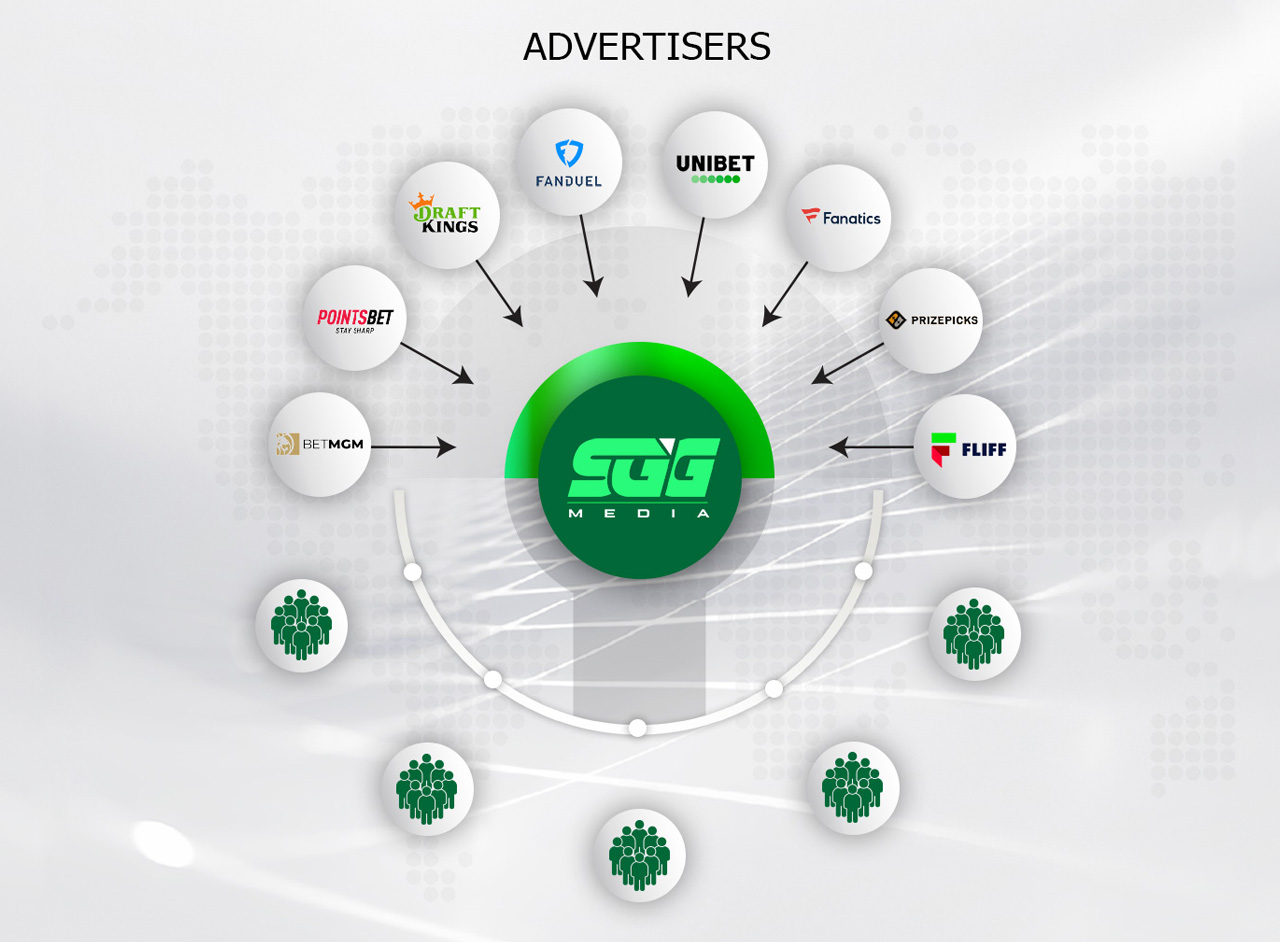
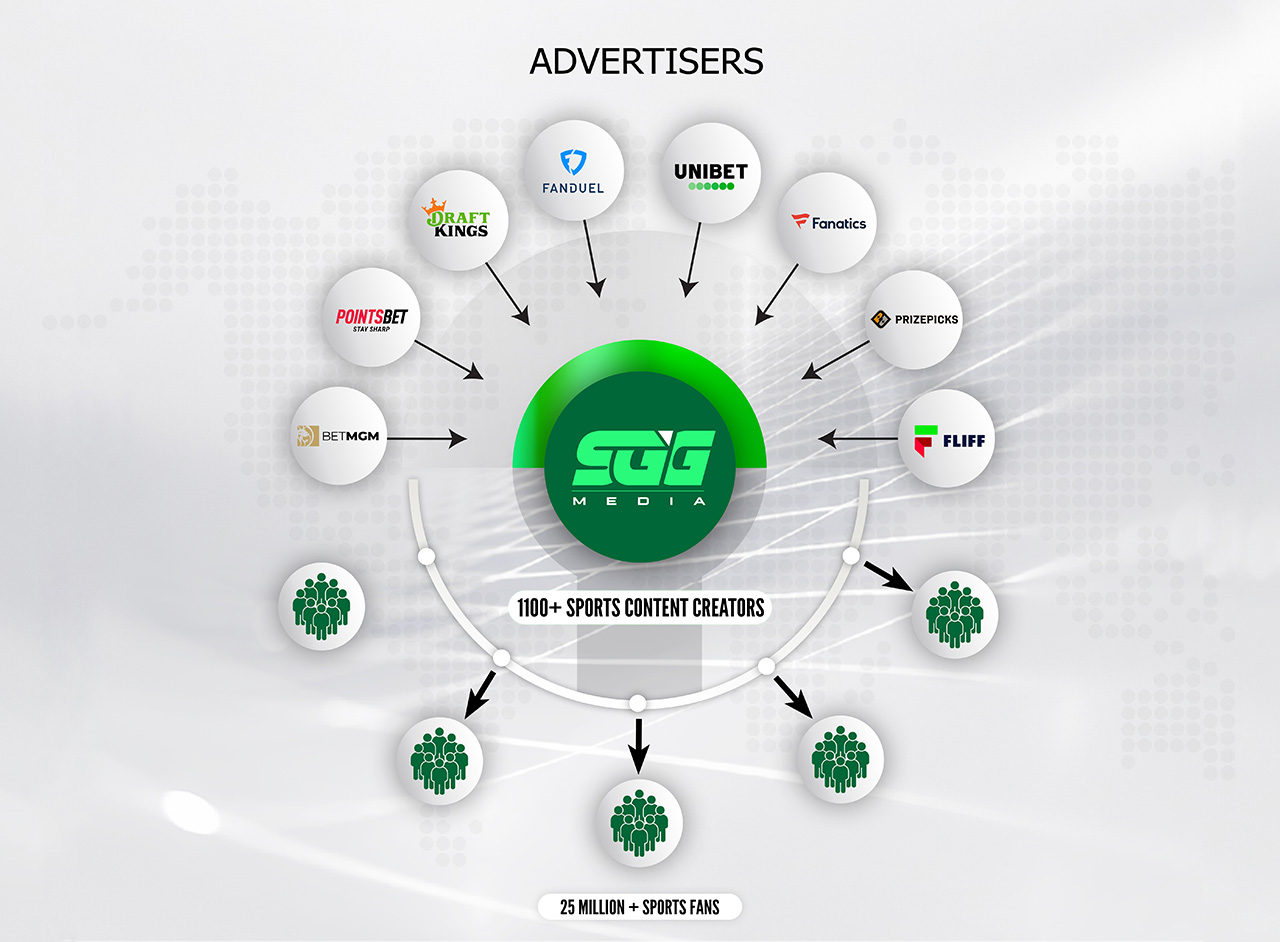
Compile Advertiser in one page

diff --git a/resources/styles/main.css b/resources/styles/main.css
@@ -1,1 +1,1 @@
-.introduction .uk-headings{text-align:center;margin:0 auto 60px}.introduction .uk-headings h2{font-family:"PassionOne-Regular";font-size:clamp(2.5rem,1rem + 2.5vw,4.5rem);color:#00a305;text-transform:uppercase;line-height:.8}.introduction .uk-headings br{content:"";display:inline}@media(min-width: 640px){.introduction .uk-headings br{display:block}}.introduction .uk-card-body{padding:0}.introduction .uk-card-title{font-family:"PassionOne-Regular";font-size:clamp(2.5rem,1rem + 2vw,4rem);text-transform:uppercase}.influencers-graph h2{font-family:"PassionOne-Regular";font-size:3rem;color:#000;text-transform:uppercase;line-height:.8;margin:0}.influencers-graph h2+p{font-size:1.125rem;text-transform:uppercase;margin:15px 0 30px}.influencers-graph .chart-container{position:relative;max-width:800px;width:100%;height:400px;margin:auto}.influencers-graph .uk-position-small{background-color:rgba(0,0,0,.8);color:rgba(255,255,255,.9);height:34px !important;padding:.4em .5em;border-radius:3px}.influencers-graph .uk-position-small span{position:relative;top:-5px}.influencers-graph .uk-flex-column .uk-card-body{padding:1em 1.5em}.influencers-graph .uk-flex-column .uk-card-title{font-family:"PassionOne-Regular";font-size:2rem;text-transform:uppercase}.influencers-graph .uk-flex-column a[href]{color:#00a305}.behind-sgg{padding:40px 0}.behind-sgg .uk-slider{min-height:568px}.behind-sgg .uk-slider .uk-slidenav{display:flex;align-items:center;justify-content:center;background-color:rgba(0,163,5,.5);color:#fff;width:40px;height:80px;border-radius:5px;transition:300ms ease-out}.behind-sgg .uk-slider .uk-slidenav:hover{background-color:#00a305}.behind-sgg figure.uk-grid{text-align:justify}.behind-sgg figure.uk-grid h2{font-family:"PassionOne-Regular";font-size:3rem;color:#000;text-transform:uppercase}@media(min-width: 640px){.behind-sgg{padding:0}}.partners.uk-section-secondary{background-color:#222}.partners h2{font-family:"PassionOne-Regular";font-size:3rem;color:#000;text-transform:uppercase;text-align:center;margin-bottom:30px}.partners .grid-wrapper{display:flex;flex-flow:row wrap;gap:15px}.partners .grid-wrapper .uk-card{flex:1 0 calc(50% - 10px);margin:0}.partners .grid-wrapper .uk-card-badge{background-color:rgba(0,0,0,0);padding:0}.partners .grid-wrapper .uk-card-badge button{background-color:#00a305;font-size:.75rem;color:#fff;text-transform:capitalize;padding:.5em;border:0;border-radius:3px}@media(min-width: 640px){.partners .grid-wrapper .uk-card{flex:0 1 calc(33.3333333333% - 10px)}}@media(min-width: 960px){.partners .grid-wrapper .uk-card{flex:0 1 calc(25% - 11.5px)}}.colophon .contact-info{background-repeat:no-repeat;background-size:cover;background-position:center}.colophon .contact-info p{font-family:"OpenSans-SemiBold";text-transform:uppercase;-webkit-font-smoothing:antialiased;-moz-osx-font-smoothing:grayscale}.colophon .contact-info p.uk-text-lead{font-family:"OpenSans-Bold";color:#fff}.colophon .contact-info p strong{color:#fff}.colophon .contact-info p span.uk-text-meta{display:block}.colophon .contact-info-link{background-image:url(../images//sgg-contact-info-link.jpg);background-repeat:no-repeat;background-size:cover;background-position:center}.colophon .contact-info-link h2{font-family:"PassionOne-Regular";font-size:3rem;color:rgba(255,255,255,.8);text-transform:uppercase}.sample-ads{z-index:100001}.sample-ads .uk-modal-dialog{background-color:#fff;padding:2em;border-radius:5px}.sample-ads h2{font-family:"PassionOne-Regular";font-size:3rem;color:#000;text-transform:uppercase;line-height:1;margin-bottom:30px}.sample-ads h2 small{display:block;font-family:"OpenSans-Bold";font-size:1.5rem}.sample-ads img{max-width:640px;width:100%;height:auto}#modal-audience{z-index:100001}#modal-audience .uk-modal-dialog{background:rgba(0,0,0,0)}#modal-audience img{display:block;max-width:640px;margin:15px 0}#modal-promotions{z-index:100001}[data-card=careers] .uk-accordion>li{margin-top:15px;padding-top:29px;padding-bottom:15px;border-top:1px solid #f5f5f5}[data-card=careers] .uk-accordion>li:first-child{border-top:0}[data-card=careers] .uk-accordion .uk-accordion-title{font-family:"OpenSans-SemiBold";font-size:24px;overflow:visible;-webkit-font-smoothing:antialiased;-moz-osx-font-smoothing:grayscale}[data-card=careers] .uk-accordion .uk-accordion-title::before{float:left;position:relative;top:-2px;background-color:rgba(204,204,204,.25);margin-left:0;margin-right:20px;border-radius:50px}[data-card=careers] .uk-accordion .uk-accordion-content{padding-left:55px}[data-card=careers] .uk-accordion .uk-accordion-content h4{font-family:"OpenSans-SemiBold";font-size:18px}[data-card=careers] .uk-accordion .uk-accordion-content a{color:#00a305;border-bottom:1px dotted rgba(0,163,5,.75)}.press-release .uk-card .uk-card-media-top{margin-top:1.5em;border-radius:3px}.press-release .uk-card .uk-card-title{font-family:"OpenSans-Bold";font-size:1.125rem;line-height:1.2}.press-release .uk-card .uk-card-footer a{color:#000;text-decoration:none}.executive-team .uk-headings,.marketing-team .uk-headings{text-align:center;margin:0 auto 30px}.executive-team .uk-headings small,.marketing-team .uk-headings small{font-family:"OpenSans-SemiBold";font-size:.875rem;text-transform:uppercase}.executive-team .uk-headings h2,.marketing-team .uk-headings h2{font-family:"PassionOne-Regular";font-size:3rem;color:#000;text-transform:uppercase;line-height:.8}.executive-team .uk-headings h3,.marketing-team .uk-headings h3{font-family:"PassionOne-Regular";font-size:2rem;color:#000;text-transform:uppercase;line-height:.8}.executive-team .uk-card,.marketing-team .uk-card{max-width:300px;margin-inline:auto;border-radius:3px}.executive-team .uk-card .uk-card-media-top,.marketing-team .uk-card .uk-card-media-top{padding:1.5em}.executive-team .uk-card .uk-card-media-top img,.marketing-team .uk-card .uk-card-media-top img{border:1px solid #005703;border-radius:3px}.executive-team .uk-card .uk-card-body,.marketing-team .uk-card .uk-card-body{padding-block:0}.executive-team .uk-card .uk-card-body h3,.executive-team .uk-card .uk-card-body p,.marketing-team .uk-card .uk-card-body h3,.marketing-team .uk-card .uk-card-body p{margin:0;-webkit-font-smoothing:antialiased;-moz-osx-font-smoothing:grayscale}.executive-team .uk-card .uk-card-body h3,.marketing-team .uk-card .uk-card-body h3{font-family:"PassionOne-Regular";font-size:1.5rem;text-transform:uppercase}.executive-team .uk-card .uk-card-footer,.marketing-team .uk-card .uk-card-footer{position:relative;border-top:0}.executive-team .uk-card .uk-card-footer::before,.marketing-team .uk-card .uk-card-footer::before{content:"";position:relative;top:-10px;display:block;max-width:200px;width:100%;margin:auto;border-top:1px solid rgba(238,238,238,.5)}.executive-team .uk-card .uk-card-footer button,.marketing-team .uk-card .uk-card-footer button{background-color:rgba(0,0,0,0);font-family:"OpenSans-SemiBold";font-size:.875rem;text-transform:uppercase;padding:0;border:0}.executive-team .uk-card-primary,.marketing-team .uk-card-primary{background-color:#00a305}.executive-team .uk-card-primary *,.marketing-team .uk-card-primary *{color:rgba(255,255,255,.8)}.executive-team .uk-card-secondary,.marketing-team .uk-card-secondary{background-color:rgba(0,0,0,0)}.executive-team .uk-card-secondary .uk-card-body,.marketing-team .uk-card-secondary .uk-card-body{color:#444;min-height:auto;padding-block:1em}.executive-team .uk-card-secondary .uk-card-body h3,.marketing-team .uk-card-secondary .uk-card-body h3{background-color:#00a305;line-height:normal;margin:0 0 5px;padding:.25em .25em .15em;border-radius:3px}.biography{z-index:100001}.biography .uk-modal-dialog{font-size:.875rem;padding:2em;border-radius:5px}.biography figure{position:relative}.biography figure::before{content:"";position:absolute;inset:17px auto auto 17px;display:block;background-color:#00a305;width:150px;height:150px;border-radius:3px;z-index:0}.biography figure img{position:relative;box-shadow:5px 5px 0 2px rgba(204,204,204,.5);border-radius:3px;z-index:1}.biography .uk-h3{font-family:"PassionOne-Regular";font-size:2rem;color:#000;text-transform:uppercase;line-height:1;margin:0}.biography .uk-h3+p{margin:0}.contact .uk-headings{text-align:center;margin:0 auto 30px}.contact .uk-headings h2{font-family:"PassionOne-Regular";font-size:clamp(1.75rem,.375rem + 1.875vw,3rem);color:#000;text-transform:uppercase;line-height:1}.contact h3{font-family:"PassionOne-Regular";font-size:clamp(1.5rem,.375rem + 1.875vw,2rem);color:#000;text-transform:uppercase}.contact p{font-family:"OpenSans-SemiBold";text-transform:uppercase;-webkit-font-smoothing:antialiased;-moz-osx-font-smoothing:grayscale}.contact p span.uk-text-meta{display:block}.contact .forminator-ui *{box-sizing:border-box !important}.contact .forminator-row{margin-bottom:15px !important}.contact .forminator-label{font-family:"OpenSans-SemiBold";font-size:.875rem;text-transform:uppercase}.contact .forminator-label .forminator-required{color:#b10909}.contact .forminator-description [data-type=characters]{font-size:.75rem;color:#888}.contact .forminator-button-submit{font-family:"OpenSans-SemiBold";color:#fff;text-transform:uppercase}.contact .forminator-error-message{font-size:.75rem;color:#b10909;padding:0 !important;margin:0 !important}
+.introduction .uk-headings{text-align:center;margin:0 auto 60px}.introduction .uk-headings h2{font-family:"PassionOne-Regular";font-size:clamp(2.5rem,1rem + 2.5vw,4.5rem);color:#00a305;text-transform:uppercase;line-height:.8}.introduction .uk-headings br{content:"";display:inline}@media(min-width: 640px){.introduction .uk-headings br{display:block}}.introduction .uk-card-body{padding:0}.introduction .uk-card-title{font-family:"PassionOne-Regular";font-size:clamp(2.5rem,1rem + 2vw,4rem);text-transform:uppercase}.influencers-graph h2,.advertisers h2,.revenue h2{font-family:"PassionOne-Regular";font-size:3rem;color:#000;text-transform:uppercase;line-height:.8;margin:0}.influencers-graph h2+p,.advertisers h2+p,.revenue h2+p{font-size:1.125rem;text-transform:uppercase;margin:15px 0 30px}.influencers-graph .chart-container,.advertisers .chart-container,.revenue .chart-container{position:relative;max-width:800px;width:100%;height:400px;margin:auto}.influencers-graph .uk-position-small,.advertisers .uk-position-small,.revenue .uk-position-small{background-color:rgba(0,0,0,.8);color:rgba(255,255,255,.9);height:34px !important;padding:.4em .5em;border-radius:3px}.influencers-graph .uk-position-small span,.advertisers .uk-position-small span,.revenue .uk-position-small span{position:relative;top:-5px}.influencers-graph .uk-flex-column .uk-card-body,.advertisers .uk-flex-column .uk-card-body,.revenue .uk-flex-column .uk-card-body{padding:1em 1.5em}.influencers-graph .uk-flex-column .uk-card-title,.advertisers .uk-flex-column .uk-card-title,.revenue .uk-flex-column .uk-card-title{font-family:"PassionOne-Regular";font-size:2rem;text-transform:uppercase}.influencers-graph .uk-flex-column a[href],.advertisers .uk-flex-column a[href],.revenue .uk-flex-column a[href]{color:#00a305}.behind-sgg{padding:40px 0}.behind-sgg .uk-slider{min-height:568px}.behind-sgg .uk-slider .uk-slidenav{display:flex;align-items:center;justify-content:center;background-color:rgba(0,163,5,.5);color:#fff;width:40px;height:80px;border-radius:5px;transition:300ms ease-out}.behind-sgg .uk-slider .uk-slidenav:hover{background-color:#00a305}.behind-sgg figure.uk-grid{text-align:justify}.behind-sgg figure.uk-grid h2{font-family:"PassionOne-Regular";font-size:3rem;color:#000;text-transform:uppercase}@media(min-width: 640px){.behind-sgg{padding:0}}.partners.uk-section-secondary{background-color:#222}.partners h2{font-family:"PassionOne-Regular";font-size:3rem;color:#000;text-transform:uppercase;text-align:center;margin-bottom:30px}.partners .grid-wrapper{display:flex;flex-flow:row wrap;gap:15px}.partners .grid-wrapper .uk-card{flex:1 0 calc(50% - 10px);margin:0}.partners .grid-wrapper .uk-card-badge{background-color:rgba(0,0,0,0);padding:0}.partners .grid-wrapper .uk-card-badge button{background-color:#00a305;font-size:.75rem;color:#fff;text-transform:capitalize;padding:.5em;border:0;border-radius:3px}@media(min-width: 640px){.partners .grid-wrapper .uk-card{flex:0 1 calc(33.3333333333% - 10px)}}@media(min-width: 960px){.partners .grid-wrapper .uk-card{flex:0 1 calc(25% - 11.5px)}}.colophon .contact-info{background-repeat:no-repeat;background-size:cover;background-position:center}.colophon .contact-info p{font-family:"OpenSans-SemiBold";text-transform:uppercase;-webkit-font-smoothing:antialiased;-moz-osx-font-smoothing:grayscale}.colophon .contact-info p.uk-text-lead{font-family:"OpenSans-Bold";color:#fff}.colophon .contact-info p strong{color:#fff}.colophon .contact-info p span.uk-text-meta{display:block}.colophon .contact-info-link{background-image:url(../images//sgg-contact-info-link.jpg);background-repeat:no-repeat;background-size:cover;background-position:center}.colophon .contact-info-link h2{font-family:"PassionOne-Regular";font-size:3rem;color:rgba(255,255,255,.8);text-transform:uppercase}.sample-ads{z-index:100001}.sample-ads .uk-modal-dialog{background-color:#fff;padding:2em;border-radius:5px}.sample-ads h2{font-family:"PassionOne-Regular";font-size:3rem;color:#000;text-transform:uppercase;line-height:1;margin-bottom:30px}.sample-ads h2 small{display:block;font-family:"OpenSans-Bold";font-size:1.5rem}.sample-ads img{max-width:640px;width:100%;height:auto}#modal-audience{z-index:100001}#modal-audience .uk-modal-dialog{background:rgba(0,0,0,0)}#modal-audience img{display:block;max-width:640px;margin:15px 0}#modal-promotions{z-index:100001}[data-card=careers] .uk-accordion>li{margin-top:15px;padding-top:29px;padding-bottom:15px;border-top:1px solid #f5f5f5}[data-card=careers] .uk-accordion>li:first-child{border-top:0}[data-card=careers] .uk-accordion .uk-accordion-title{font-family:"OpenSans-SemiBold";font-size:24px;overflow:visible;-webkit-font-smoothing:antialiased;-moz-osx-font-smoothing:grayscale}[data-card=careers] .uk-accordion .uk-accordion-title::before{float:left;position:relative;top:-2px;background-color:rgba(204,204,204,.25);margin-left:0;margin-right:20px;border-radius:50px}[data-card=careers] .uk-accordion .uk-accordion-content{padding-left:55px}[data-card=careers] .uk-accordion .uk-accordion-content h4{font-family:"OpenSans-SemiBold";font-size:18px}[data-card=careers] .uk-accordion .uk-accordion-content a{color:#00a305;border-bottom:1px dotted rgba(0,163,5,.75)}.press-release .uk-card .uk-card-media-top{margin-top:1.5em;border-radius:3px}.press-release .uk-card .uk-card-title{font-family:"OpenSans-Bold";font-size:1.125rem;line-height:1.2}.press-release .uk-card .uk-card-footer a{color:#000;text-decoration:none}.executive-team .uk-headings,.marketing-team .uk-headings{text-align:center;margin:0 auto 30px}.executive-team .uk-headings small,.marketing-team .uk-headings small{font-family:"OpenSans-SemiBold";font-size:.875rem;text-transform:uppercase}.executive-team .uk-headings h2,.marketing-team .uk-headings h2{font-family:"PassionOne-Regular";font-size:3rem;color:#000;text-transform:uppercase;line-height:.8}.executive-team .uk-headings h3,.marketing-team .uk-headings h3{font-family:"PassionOne-Regular";font-size:2rem;color:#000;text-transform:uppercase;line-height:.8}.executive-team .uk-card,.marketing-team .uk-card{max-width:300px;margin-inline:auto;border-radius:3px}.executive-team .uk-card .uk-card-media-top,.marketing-team .uk-card .uk-card-media-top{padding:1.5em}.executive-team .uk-card .uk-card-media-top img,.marketing-team .uk-card .uk-card-media-top img{border:1px solid #005703;border-radius:3px}.executive-team .uk-card .uk-card-body,.marketing-team .uk-card .uk-card-body{padding-block:0}.executive-team .uk-card .uk-card-body h3,.executive-team .uk-card .uk-card-body p,.marketing-team .uk-card .uk-card-body h3,.marketing-team .uk-card .uk-card-body p{margin:0;-webkit-font-smoothing:antialiased;-moz-osx-font-smoothing:grayscale}.executive-team .uk-card .uk-card-body h3,.marketing-team .uk-card .uk-card-body h3{font-family:"PassionOne-Regular";font-size:1.5rem;text-transform:uppercase}.executive-team .uk-card .uk-card-footer,.marketing-team .uk-card .uk-card-footer{position:relative;border-top:0}.executive-team .uk-card .uk-card-footer::before,.marketing-team .uk-card .uk-card-footer::before{content:"";position:relative;top:-10px;display:block;max-width:200px;width:100%;margin:auto;border-top:1px solid rgba(238,238,238,.5)}.executive-team .uk-card .uk-card-footer button,.marketing-team .uk-card .uk-card-footer button{background-color:rgba(0,0,0,0);font-family:"OpenSans-SemiBold";font-size:.875rem;text-transform:uppercase;padding:0;border:0}.executive-team .uk-card-primary,.marketing-team .uk-card-primary{background-color:#00a305}.executive-team .uk-card-primary *,.marketing-team .uk-card-primary *{color:rgba(255,255,255,.8)}.executive-team .uk-card-secondary,.marketing-team .uk-card-secondary{background-color:rgba(0,0,0,0)}.executive-team .uk-card-secondary .uk-card-body,.marketing-team .uk-card-secondary .uk-card-body{color:#444;min-height:auto;padding-block:1em}.executive-team .uk-card-secondary .uk-card-body h3,.marketing-team .uk-card-secondary .uk-card-body h3{background-color:#00a305;line-height:normal;margin:0 0 5px;padding:.25em .25em .15em;border-radius:3px}.biography{z-index:100001}.biography .uk-modal-dialog{font-size:.875rem;padding:2em;border-radius:5px}.biography figure{position:relative}.biography figure::before{content:"";position:absolute;inset:17px auto auto 17px;display:block;background-color:#00a305;width:150px;height:150px;border-radius:3px;z-index:0}.biography figure img{position:relative;box-shadow:5px 5px 0 2px rgba(204,204,204,.5);border-radius:3px;z-index:1}.biography .uk-h3{font-family:"PassionOne-Regular";font-size:2rem;color:#000;text-transform:uppercase;line-height:1;margin:0}.biography .uk-h3+p{margin:0}.contact .uk-headings{text-align:center;margin:0 auto 30px}.contact .uk-headings h2{font-family:"PassionOne-Regular";font-size:clamp(1.75rem,.375rem + 1.875vw,3rem);color:#000;text-transform:uppercase;line-height:1}.contact h3{font-family:"PassionOne-Regular";font-size:clamp(1.5rem,.375rem + 1.875vw,2rem);color:#000;text-transform:uppercase}.contact p{font-family:"OpenSans-SemiBold";text-transform:uppercase;-webkit-font-smoothing:antialiased;-moz-osx-font-smoothing:grayscale}.contact p span.uk-text-meta{display:block}.contact .forminator-ui *{box-sizing:border-box !important}.contact .forminator-row{margin-bottom:15px !important}.contact .forminator-label{font-family:"OpenSans-SemiBold";font-size:.875rem;text-transform:uppercase}.contact .forminator-label .forminator-required{color:#b10909}.contact .forminator-description [data-type=characters]{font-size:.75rem;color:#888}.contact .forminator-button-submit{font-family:"OpenSans-SemiBold";color:#fff;text-transform:uppercase}.contact .forminator-error-message{font-size:.75rem;color:#b10909;padding:0 !important;margin:0 !important}

diff --git a/build/scss/options/advertise.scss b/build/scss/options/advertise.scss
@@ -38,7 +38,9 @@
 
 }
 
-.influencers-graph {
+.influencers-graph,
+.advertisers,
+.revenue {
 
     h2 {
         font-family: $passion;

diff --git a/views/fragments/menu.php b/views/fragments/menu.php
@@ -18,7 +18,6 @@ $logo         = wp_get_attachment_image_src( $customLogoID, 'full' ); ?>
                 echo '</a>';
             } else {
                 echo '<a href="'.esc_url( home_url() ).'" class="uk-logo">';
-                // echo '<img src="'._uri.'/resources/images/logo-sgg-media-black.png" alt="'.get_bloginfo().'">';
                 echo '<img src="'. $logo[0] .'" alt="'. get_bloginfo() .'">';
                 echo '</a>';
             } ?>
@@ -37,9 +36,15 @@ $logo         = wp_get_attachment_image_src( $customLogoID, 'full' ); ?>
                 <li class="uk-parent"><a href="#">Advertise <span uk-icon="icon:triangle-down; ratio:.8;"></span></a>
                     <div class="uk-navbar-dropdown">
                         <ul class="uk-nav uk-navbar-dropdown-nav">
-                            <li><a href="<?php echo esc_url( get_permalink( 259 ) ); ?>">Cost Effectiveness</a></li>
-                            <li><a href="<?php echo esc_url( get_permalink( 261 ) ); ?>">How It Works</a></li>
-                            <li><a href="<?php echo esc_url( get_permalink( 295 ) ); ?>">Revenue Streams</a></li>
+                            <?php if ( is_page( 259 ) ) : ?>
+                            <li><a uk-scroll="offset: 80" href="<?php echo esc_url( site_url('#Contents') ); ?>">Cost Effectiveness</a></li>
+                            <li><a uk-scroll="offset: 80" href="<?php echo esc_url( site_url('#advertisers') ); ?>">How It Works</a></li>
+                            <li><a uk-scroll="offset: 80" href="<?php echo esc_url( site_url('#revenue') ); ?>">SGG Revenue Streams</a></li>
+                            <?php else : ?>
+                            <li><a href="<?php echo esc_url( get_permalink( 259 ).'#sgg-Contents' ); ?>">Cost Effectiveness</a></li>
+                            <li><a href="<?php echo esc_url( get_permalink( 259 ).'#sgg-advertisers' ); ?>">How It Works</a></li>
+                            <li><a href="<?php echo esc_url( get_permalink( 259 ).'#sgg-revenue' ); ?>">SGG Revenue Streams</a></li>
+                            <?php endif; ?> 
                         </ul>
                     </div>
                 </li>

diff --git a/views/pages/cost-effectiveness.php b/views/pages/cost-effectiveness.php
@@ -17,6 +17,48 @@
         </div>
     </section>
 
+
+    <section id="advertisers" class="advertisers | uk-section uk-section-muted">
+        <div class="uk-container uk-container-expand">
+            
+            <div class="uk-headings uk-text-center uk-margin-medium-bottom">
+                <h2>How SGG Advertiser Connect to Sport Fans</h2>
+            </div>
+
+            <div class="uk-grid-divider uk-grid-match uk-flex-middle" uk-grid>
+                <div class="uk-width-expand@m">
+                    <figure class="uk-panel">
+                        <img src="<?php echo _uri.'/resources/images/sgg-media-graph-01.jpg' ?>" class="uk-box-shadow-medium" alt="Advertising - How It Works">
+                    </figure>
+                </div>
+                <div class="uk-width-auto@m">
+                    <div class="uk-panel">
+                        <iframe src="https://www.youtube.com/embed/rQEvy83ZSCA?autoplay=1&loop=1&rel=0&playlist=rQEvy83ZSCA" width="526" height="480" frameborder="0" allowfullscreen uk-video="automute: true"></iframe>
+                    </div>
+                </div>
+            </div>
+
+        </div>
+    </section>
+
+    <section id="revenue" class="revenue | uk-section">
+        <div class="uk-container">
+            
+            <div class="uk-headings uk-text-center uk-margin-medium-bottom">
+                <h2>SGG Media Revenue Streams</h2>
+            </div>
+
+            <div class="uk-grid-divider uk-grid-match uk-flex-middle" uk-grid>
+                <div class="uk-width-1-1">
+                    <figure class="uk-panel">
+                        <img src="<?php echo _uri.'/resources/images/sgg-media-graph-02.jpg' ?>" class="uk-box-shadow-medium" alt="Advertising - Revenue Streams">
+                    </figure>
+                </div>
+            </div>
+
+        </div>
+    </section>
+
 </main>
 <script src="https://cdn.jsdelivr.net/npm/chart.js"></script>
 <script>

diff --git a/views/fragments/mobile.php b/views/fragments/mobile.php
@@ -15,9 +15,15 @@
             <?php endif; ?>           
             <li class="uk-parent"><a href="#">Advertise <span uk-icon="icon:triangle-down; ratio:.8;"></span></a>
                 <ul class="uk-nav-sub uk-light">
-                    <li><a href="<?php echo esc_url( get_permalink( 259 ) ); ?>">Cost Effectiveness</a></li>
-                    <li><a href="<?php echo esc_url( get_permalink( 261 ) ); ?>">How It Works</a></li>
-                    <li><a href="<?php echo esc_url( get_permalink( 295 ) ); ?>">SGG Media Revenue Streams</a></li>
+                    <?php if ( is_page( 259 ) ) : ?>
+                    <li><a uk-scroll="offset: 80" href="<?php echo esc_url( site_url('#Contents') ); ?>">Cost Effectiveness</a></li>
+                    <li><a uk-scroll="offset: 80" href="<?php echo esc_url( site_url('#advertisers') ); ?>">How It Works</a></li>
+                    <li><a uk-scroll="offset: 80" href="<?php echo esc_url( site_url('#revenue') ); ?>">SGG Revenue Streams</a></li>
+                    <?php else : ?>
+                    <li><a href="<?php echo esc_url( get_permalink( 259 ).'#sgg-Contents' ); ?>">Cost Effectiveness</a></li>
+                    <li><a href="<?php echo esc_url( get_permalink( 259 ).'#sgg-advertisers' ); ?>">How It Works</a></li>
+                    <li><a href="<?php echo esc_url( get_permalink( 259 ).'#sgg-revenue' ); ?>">SGG Revenue Streams</a></li>
+                    <?php endif; ?> 
                 </ul>
             </li>            
             <li><a href="<?php echo esc_url( get_permalink( 124 ) ); ?>">Our Team</a></li>
